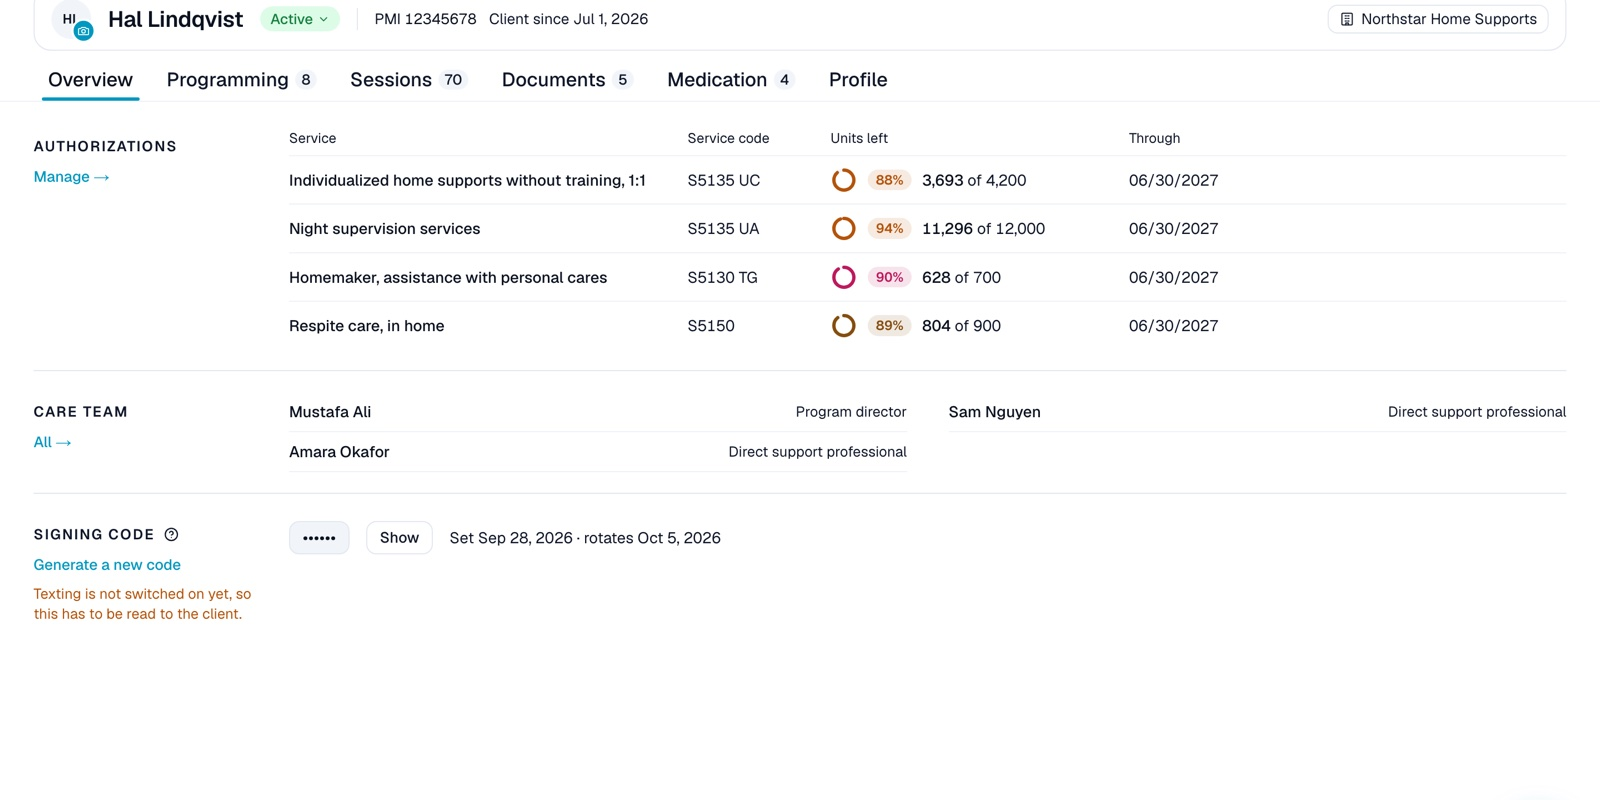
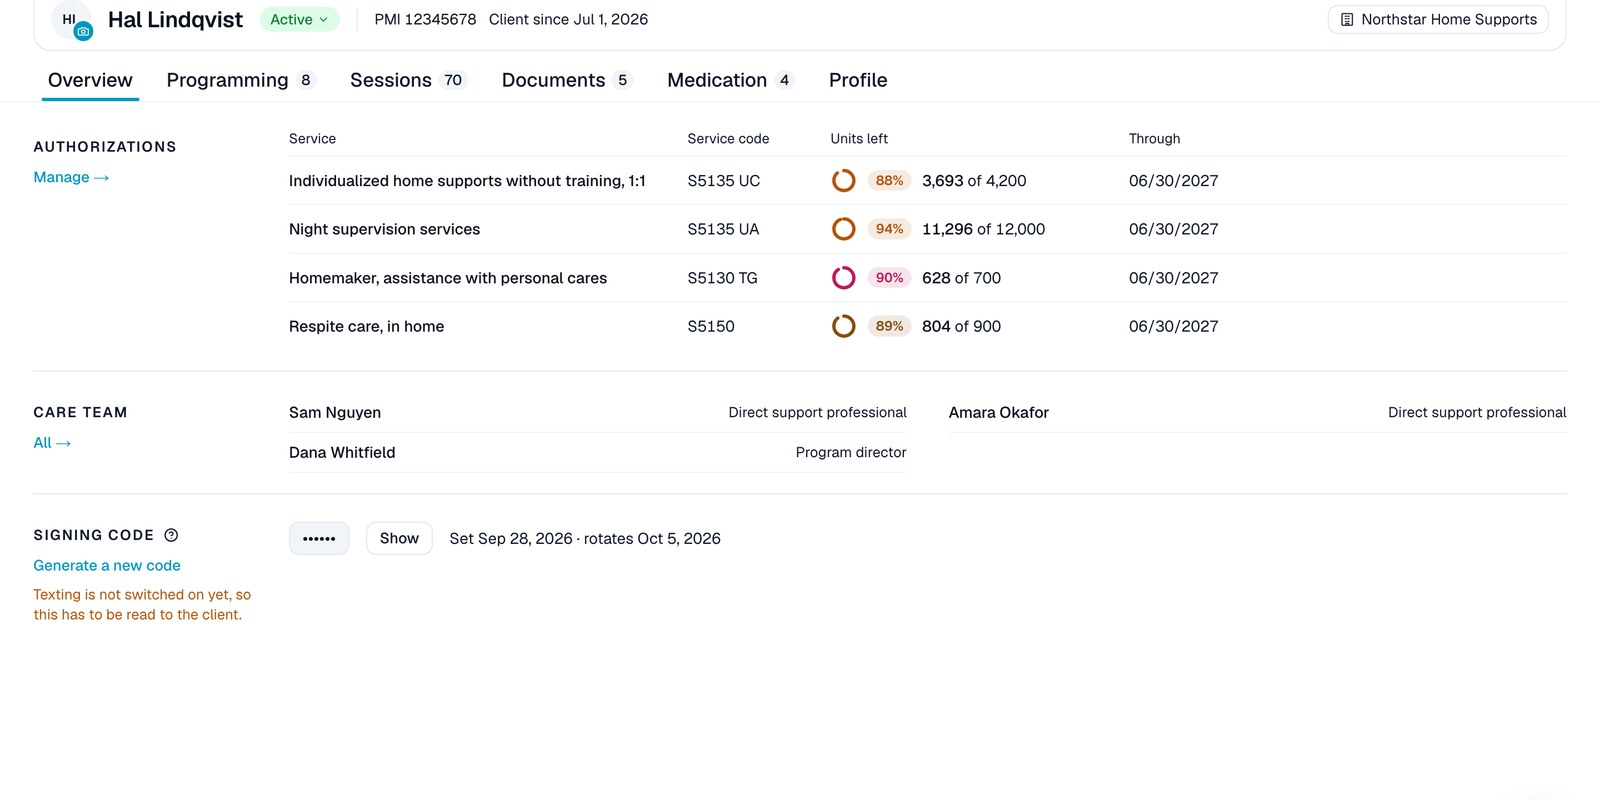
Website is the front door: signed-out visitors get /site at /, Log in goes to /login; site pictures carry no real names; page works opened from disk

diff --git a/public/site/index.html b/public/site/index.html
@@ -183,7 +183,7 @@ footer .bottom { border-top: 1px solid var(--line); margin-top: 44px; padding-to
       <a href="#record">The record</a>
     </nav>
     <div class="right">
-      <a class="pill ghost" href="https://ehr-system-eight.vercel.app">Log in</a>
+      <a class="pill ghost" href="/login">Log in</a>
       <a class="pill navy" href="#demo">Book a demo</a>
     </div>
   </div>
@@ -338,12 +338,21 @@ footer .bottom { border-top: 1px solid var(--line); margin-top: 44px; padding-to
       <div><a class="logo" href="#"><img src="/site/evvora-wordmark.svg" alt="EVVora"></a><p class="tag">The record built for Minnesota 245D providers.</p></div>
       <div><span class="eyebrow">Product</span><a href="#product">The note</a><a href="#why">Why EVVora</a><a href="#how">How it works</a></div>
       <div><span class="eyebrow">Company</span><a href="mailto:demo@evvora.com">Contact</a><a href="#demo">Book a demo</a></div>
-      <div><span class="eyebrow">Account</span><a href="https://ehr-system-eight.vercel.app">Log in</a></div>
+      <div><span class="eyebrow">Account</span><a href="/login">Log in</a></div>
     </div>
     <div class="bottom">© 2026 EVVora. All rights reserved.</div>
   </div>
 </footer>
 
+<script>
+// Opened straight from disk (file://) the /site/ paths point at the root of the drive, so the pictures
+// and fonts go missing. Served by the app they are right as written; only rewrite them for a local file.
+if (location.protocol === "file:") {
+  document.querySelectorAll('img[src^="/site/"]').forEach(function (el) { el.src = "./" + el.getAttribute("src").slice(6); });
+  document.querySelectorAll('link[href^="/site/"]').forEach(function (el) { el.href = "./" + el.getAttribute("href").slice(6); });
+  document.querySelectorAll("style").forEach(function (el) { el.textContent = el.textContent.split("url(/site/").join("url(./"); });
+}
+</script>
 <script>
 (() => {
   const io = new IntersectionObserver((es) => es.forEach((e) => { if (e.isIntersecting) { e.target.classList.add('in'); io.unobserve(e.target); } }), { rootMargin: '0px 0px -8% 0px', threshold: 0.05 });

diff --git a/next.config.ts b/next.config.ts
@@ -38,7 +38,17 @@ const nextConfig: NextConfig = {
     }];
   },
   async rewrites() {
-    return [{ source: "/notes", destination: "/visits" }, { source: "/notes/:path*", destination: "/visits/:path*" }];
+    // Wherever a login is required, a visitor with no session cookie gets the product website at "/"
+    // instead of being bounced to /login. Signed-in staff still land on the app's home. Open-access
+    // development keeps "/" as the app, since everyone there is signed in as the first admin.
+    const loginRequired = process.env.NODE_ENV === "production" || process.env.REQUIRE_LOGIN === "1";
+    return {
+      beforeFiles: loginRequired
+        ? [{ source: "/", missing: [{ type: "cookie" as const, key: "ehr_session" }], destination: "/site/index.html" }]
+        : [],
+      afterFiles: [{ source: "/notes", destination: "/visits" }, { source: "/notes/:path*", destination: "/visits/:path*" }],
+      fallback: [],
+    };
   },
 };
 

diff --git a/AGENTS.md b/AGENTS.md
@@ -455,3 +455,5 @@ This block is written and re-added by `next dev` — verify at `node_modules/nex
 
 <!-- END:nextjs-agent-rules -->
 - **Marketing site (Sept 28, 2026).** `public/site/index.html` is one static page, served at `/site` by the app deploy. Built four times that day at the user's direction: a kibu.com-shaped brochure; a single scroll with a sticky showcase ("too much information, not YC"); the **halmoslabs.com template** ("use this as a template"); and finally that page **merged with hubble.ai** ("also implement how hubble.ai does their website"), which is what ships. From Halmos it keeps the tinted mist, the frosted cards, the tilted glass slab of the product (now under a centred hero, `rotateX`, cropped 2.7:1 to the record's content), the floating cards over the big screenshot and the "read two ways" pair. From Hubble it takes the warm off-white page (#f2f2ee) with two soft colour discs behind the hero (warm top-left, blue right), **Fraunces for every heading** with Public Sans body and **Inconsolata mono eyebrows** (uppercase, 3px tracking, deep blue), the centred hero with two pill buttons and a mono trust row (15-minute units · client co-signature · EVV ready), the "See it work" split with a floating **record card** whose rows carry a source tag at the right (Intake · DHS list · Clock · Signing code · EVV), the four-column "Why" grid with icon tiles, the three numbered "How it works" cards, a **stats band** of big serif figures (15 min · 7 days · 13 items: facts from the licence, not customer numbers), alternating white / off-white sections divided by hairlines, the dark rounded call-to-action panel with thin concentric arcs and a white pill, and the four-column footer. All three faces already lived in `src/fonts` for the PDFs, so nothing new is loaded. Blocks fade up once on entry (`.r`, off under `prefers-reduced-motion`). No logos, testimonials or invented statistics. **The agency's name is not on it anywhere** (user: "personal company stuff"): the four screenshots in `public/site/img/` come from the local PGlite seed with the organisation renamed to the fictional "Northstar Home Supports" (`DATABASE_URL=" " npm run db:org -- "Northstar Home Supports"`, then `DATABASE_URL=" " npm run dev`; the space keeps `.env.local` from being read), centre-cropped to drop the top strip, the corner hub and the dev indicator. Retake them the same way when a screen changes and keep the real name out. Fetch the note image through `/clients/<id>/notes.pdf?visit=<id>`, not `/visits/<id>/note.pdf`: the latter serves the content-keyed cache and an organisation rename does not change the key. Test hooks: `?static` shows every reveal at once and `?y=<px>` shifts the page for headless captures. Placeholders for the user: the demo buttons are `mailto:demo@evvora.com`, and there is no domain yet.
+- **The website is the front door (Sept 28, 2026, user's request).** Wherever a login is required (production, or `REQUIRE_LOGIN=1`), a `beforeFiles` rewrite in `next.config.ts` serves `public/site/index.html` at `/` to any request without an `ehr_session` cookie; signed-in staff still get the app's home, and a stale cookie falls through to the app and on to `/login` as before. The site's Log in links go to `/login`. Open-access development keeps `/` as the app (everyone there is the first admin), so test with `REQUIRE_LOGIN=1 npm run dev`.
+- Site pictures carry no real names either (Sept 28, 2026, user): the admin on the overview's care team was retaken as the fictional "Dana Whitfield" (`DATABASE_URL=" " npm run db:staff-name -- admin@example.com Dana Whitfield`, capture, then rename back). Headless Chrome at 1440 wide, scale 2, cropped `top:179, 2880×1440` and resized to 1600×800 reproduces the original framing. The page also works opened straight from disk: a small script at the foot rewrites `/site/` paths to `./` only under `file://`.
